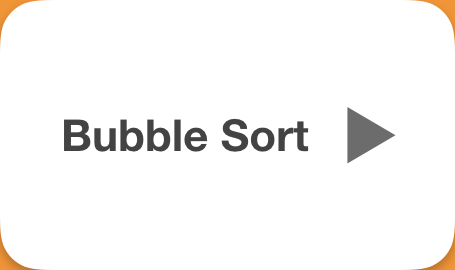
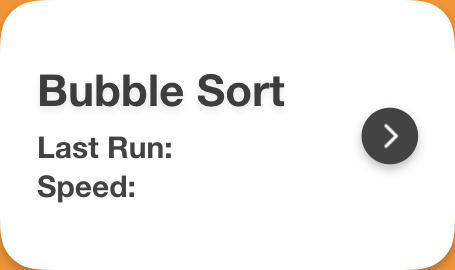
New UI for mainscreen.

diff --git a/pygame/00 main.py b/pygame/00 main.py
@@ -20,25 +20,23 @@ scroll_y = 0
 
 def scroll(event):
     global scroll_y, bubblesort_frame, quicksort_frame, mergesort_frame, insertionsort_frame, bogosort_frame, radixsort_frame
+    
     # Scrollbar
     scrollbar_image = pygame.image.load('scrollbar_image.png').convert()
+    isScrolling = False
 
     if event.type == pygame.MOUSEBUTTONDOWN:
         if event.button == 4: scroll_y = min(scroll_y + 35, 0)
         if event.button == 5: scroll_y = max(scroll_y - 35, -295)
 
         if event.button == 4 or event.button == 5:
-            bubblesort_frame = (spacing, title_height+spacing+scroll_y)
-            quicksort_frame = (window_size[0]-spacing-sortingBoxes_size_w, title_height+spacing+scroll_y)
-            mergesort_frame = (spacing, title_height+spacing*2+sortingBoxes_size_h+scroll_y)
-            insertionsort_frame = (window_size[0]-spacing-sortingBoxes_size_w, title_height+spacing*2+sortingBoxes_size_h+scroll_y)
-            bogosort_frame = (spacing, title_height+spacing*3+sortingBoxes_size_h*2+scroll_y)
-            radixsort_frame = (window_size[0]-spacing-sortingBoxes_size_w, title_height+spacing*3+sortingBoxes_size_h*2+scroll_y)
-            scrollbar_image.set_alpha(200)
+            scrollbar_image.set_alpha(170)
 
     screen.blit(window, (0, scroll_y))
     screen.blit(scrollbar_image, (window_size[0]-25, -int(scroll_y*(476/295))))
     update_draw()
+
+    return scroll_y
 
 def update_draw():
     pygame.display.flip()
@@ -62,7 +60,7 @@ title_colour = pygame.Color(40, 40, 40)
 
 # Font set
 # title_font = pygame.font.SysFont('Helvetica Neue Bold', 85)
-config_font = pygame.font.SysFont('Helvetica Neue Bold', 50)
+config_font = pygame.font.SysFont('Helvetica Neue Bold', 48)
 
 # Title bar
 title_height = 80
@@ -98,13 +96,6 @@ radixsortConfig_btn = pygame.image.load('radixsortConfig_btn.png')
 
 # Fade in animation (NOT DONE)
 def setup():
-    bubblesort_frame = (spacing, title_height+spacing)
-    quicksort_frame = (window_size[0]-spacing-sortingBoxes_size_w, title_height+spacing)
-    mergesort_frame = (spacing, title_height+spacing*2+sortingBoxes_size_h)
-    insertionsort_frame = (window_size[0]-spacing-sortingBoxes_size_w, title_height+spacing*2+sortingBoxes_size_h)
-    bogosort_frame = (spacing, title_height+spacing*3+sortingBoxes_size_h*2)
-    radixsort_frame = (window_size[0]-spacing-sortingBoxes_size_w, title_height+spacing*3+sortingBoxes_size_h*2)
-
     window.blit(mainscreen_image, (0, 0))
     window.blit(bubblesort_btn, bubblesort_frame)
     window.blit(quicksort_btn, quicksort_frame)
@@ -123,15 +114,14 @@ runSelected_btn = pygame.image.load('runSelected_btn.png')
 
 # Sorting config
 runBtn_x, runBtn_y, runBtn_w, runBtn_h = 324, 200, 116, 56
-speedText_x, speedText_y, speedText_w, speedText_h = 216, 89, 45, 39 
-listlengthText_x, listlengthText_y, listlengthText_w, listlengthText_h = 216, 145, 37, 39 
+speedText_x, speedText_y, speedText_w, speedText_h = 161, 95, 140, 39 
+listlengthText_x, listlengthText_y, listlengthText_w, listlengthText_h = 230, 145, 71, 39 
 speed = float(1.0)
 listlength = 10
-stepper_x = 90
 
 def showConfig(frame, show_image):
     global scroll_y
-    frame = (frame[0], frame[1]-scroll_y)
+    # frame = (frame[0], frame[1]-scroll_y)
     # Show image
     window.blit(show_image, frame)
     # Show config
@@ -145,13 +135,13 @@ def showConfig(frame, show_image):
 
 # Check if cursor in box
 def cursor(frame, sort_image, show_image):
-    global scroll_y, speed, listlength, scroll_y
+    global scroll_y, speed, listlength
     
     mousePos = pygame.mouse.get_pos()
 
     # Cursor in frame of the box
     sortConfig_drawn = False
-    while frame[0]+sortingBoxes_size_w > mousePos[0] > frame[0] and frame[1]+sortingBoxes_size_h > mousePos[1] > frame[1]:
+    while frame[0]+sortingBoxes_size_w > mousePos[0] > frame[0] and frame[1]+sortingBoxes_size_h+scroll_y > mousePos[1] > frame[1]+scroll_y:
         # Change to sorConfig_btn
         if not sortConfig_drawn: 
             showConfig(frame, show_image)
@@ -165,39 +155,43 @@ def cursor(frame, sort_image, show_image):
                     # Stepper for speed
                     # click "-"
                     if 0.3 < speed: # 0.2 is min number
-                        if frame[0]+speedText_x+stepper_x+50 > mousePos[0] > frame[0]+speedText_x+stepper_x and frame[1]+speedText_y-3+39 > mousePos[1] > frame[1]+speedText_y-3:
+                        if frame[0]+speedText_x+speedText_w+50 > mousePos[0] > frame[0]+speedText_x+speedText_w and frame[1]+speedText_y+speedText_h+scroll_y > mousePos[1] > frame[1]+speedText_y+scroll_y:
                             speed -= 0.1
                             showConfig(frame, show_image)
                     # click "+"
-                    if speed < 7.9: # 8.0 is max number
-                        if frame[0]+speedText_x+stepper_x+100 > mousePos[0] > frame[0]+speedText_x+stepper_x+50 and frame[1]+speedText_y-3+39 > mousePos[1] > frame[1]+speedText_y-3:         
+                    if speed < 9.9: # 10.0 is max number
+                        if frame[0]+speedText_x+speedText_w+100 > mousePos[0] > frame[0]+speedText_x+speedText_w+50 and frame[1]+speedText_y+speedText_h+scroll_y > mousePos[1] > frame[1]+speedText_y+scroll_y:         
                             speed += 0.1
                             showConfig(frame, show_image)
                         
                     # Stepper for listlength
                     # click "-"
                     if 1 < listlength: # 0 is min number
-                        if frame[0]+listlengthText_x+stepper_x+50 > mousePos[0] > frame[0]+listlengthText_x+stepper_x and frame[1]+listlengthText_y-3+39 > mousePos[1] > frame[1]+listlengthText_y-3:
+                        if frame[0]+listlengthText_x+listlengthText_w+50 > mousePos[0] > frame[0]+listlengthText_x+listlengthText_w and frame[1]+listlengthText_y+speedText_h+scroll_y > mousePos[1] > frame[1]+listlengthText_y+scroll_y:
                             listlength -= 1
                             showConfig(frame, show_image)
                     # click "+"
                     if listlength < 100: # 100 is max number
-                        if frame[0]+listlengthText_x+stepper_x+100 > mousePos[0] > frame[0]+listlengthText_x+stepper_x+50 and frame[1]+listlengthText_y-3+39 > mousePos[1] > frame[1]+listlengthText_y-3:
+                        if frame[0]+listlengthText_x+listlengthText_w+100 > mousePos[0] > frame[0]+listlengthText_x+listlengthText_w+50 and frame[1]+listlengthText_y+speedText_h+scroll_y > mousePos[1] > frame[1]+listlengthText_y+scroll_y:
                             listlength += 1
                             showConfig(frame, show_image)
+            
             scroll(event)
 
         # Cursor on run_btn
         runSelected_drawn = False
-        while frame[0]+runBtn_x+runBtn_w > mousePos[0] > frame[0]+runBtn_x and frame[1]+runBtn_y+runBtn_h > mousePos[1] > frame[1]+runBtn_y:
+        while frame[0]+runBtn_x+runBtn_w > mousePos[0] > frame[0]+runBtn_x and frame[1]+runBtn_y+runBtn_h+scroll_y > mousePos[1] > frame[1]+runBtn_y+scroll_y:
             # if runSelected_btn not drawn 
             if not runSelected_drawn:
-                window.blit(runSelected_btn, (frame[0]+runBtn_x, frame[1]+runBtn_y-scroll_y))
+                window.blit(runSelected_btn, (frame[0]+runBtn_x, frame[1]+runBtn_y))
                 runSelected_drawn = True
 
             # Cursor click run_btn
             for event in pygame.event.get():
-                if event.type == pygame.MOUSEBUTTONDOWN: return True # run sort algorithm
+                if event.type == pygame.MOUSEBUTTONDOWN: 
+                    if event.button == 1:
+                        return True # run sort algorithm
+            
                 scroll(event)
             
             mousePos = pygame.mouse.get_pos()
@@ -205,7 +199,7 @@ def cursor(frame, sort_image, show_image):
 
         # Cursor move out of run_btn
         if runSelected_drawn:
-            window.blit(runUnselected_btn, (frame[0]+runBtn_x, frame[1]+runBtn_y-scroll_y))
+            window.blit(runUnselected_btn, (frame[0]+runBtn_x, frame[1]+runBtn_y))
             
 
         mousePos = pygame.mouse.get_pos()
@@ -213,7 +207,6 @@ def cursor(frame, sort_image, show_image):
     # Cursor is out of the box, change have to sort_btn
     if sortConfig_drawn: 
         buffer()
-        frame = (frame[0], frame[1]-scroll_y)
         window.blit(sort_image, frame)
 
 # Main loop
@@ -231,7 +224,6 @@ while True:
         setup()
 
     elif cursor(insertionsort_frame, insertionsort_btn, insertionsortConfig_btn):
-        # insertionsort(speed, listlength, False)
         radixsort(speed, listlength, False)
         setup()
 
